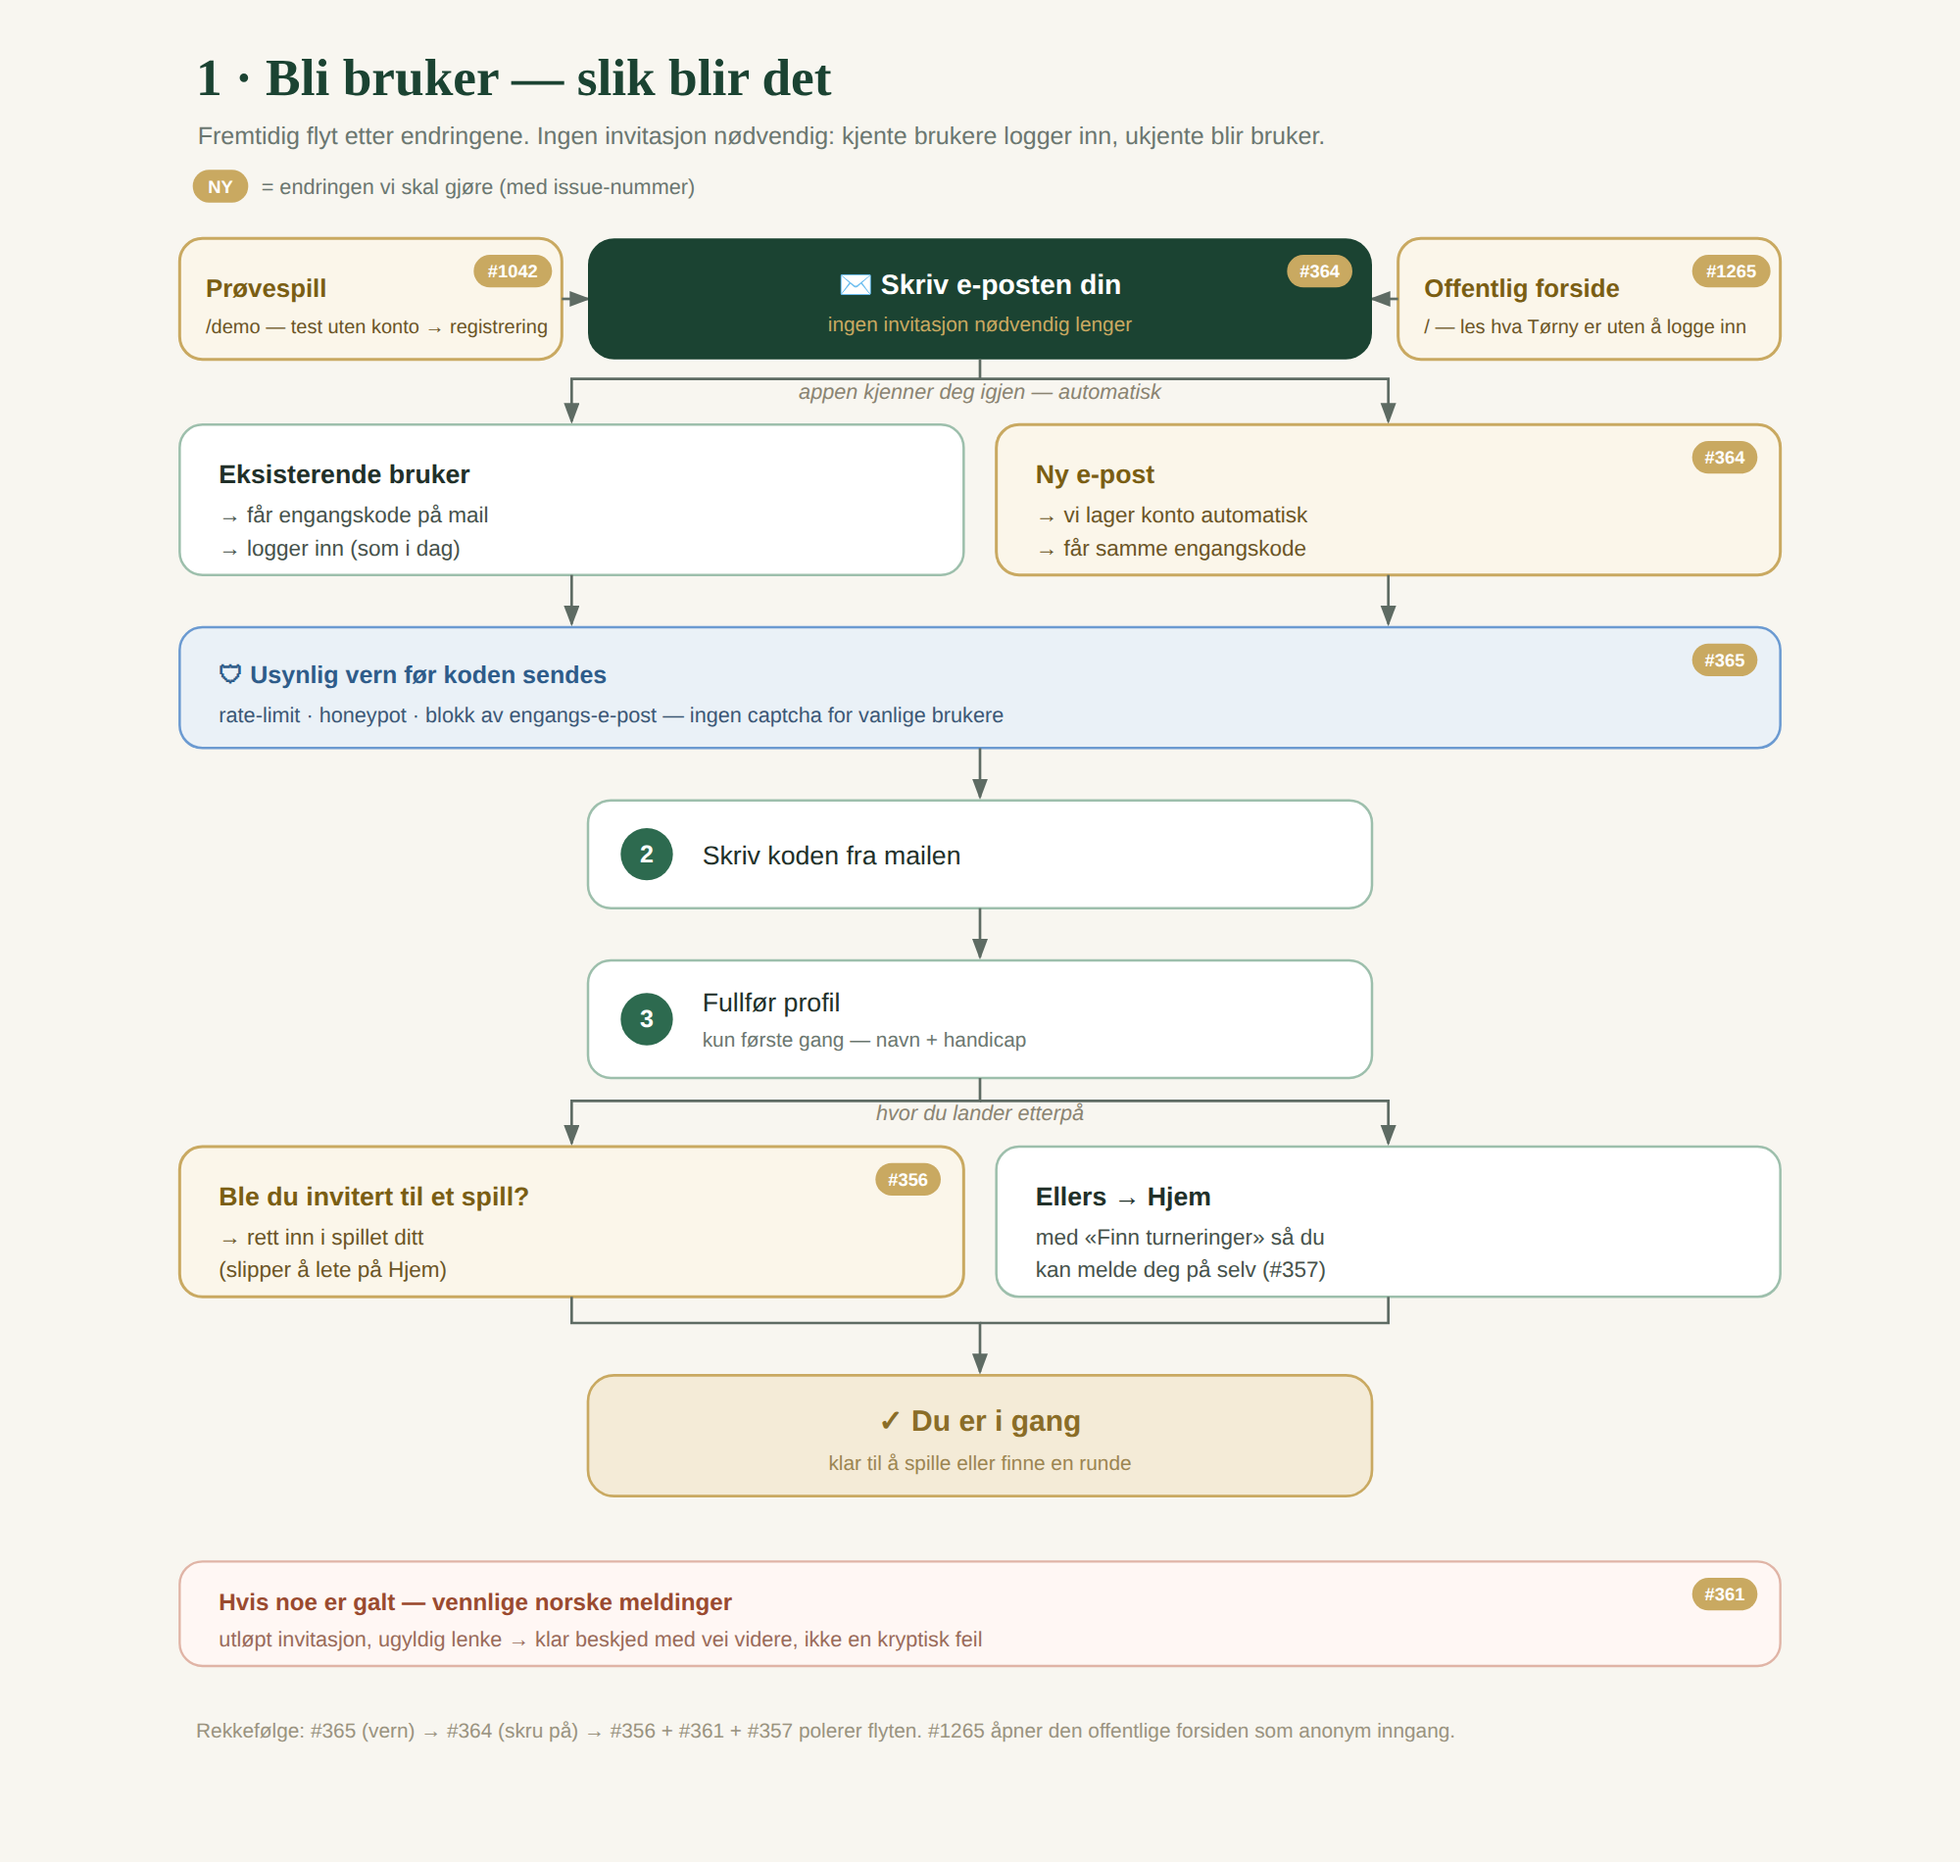
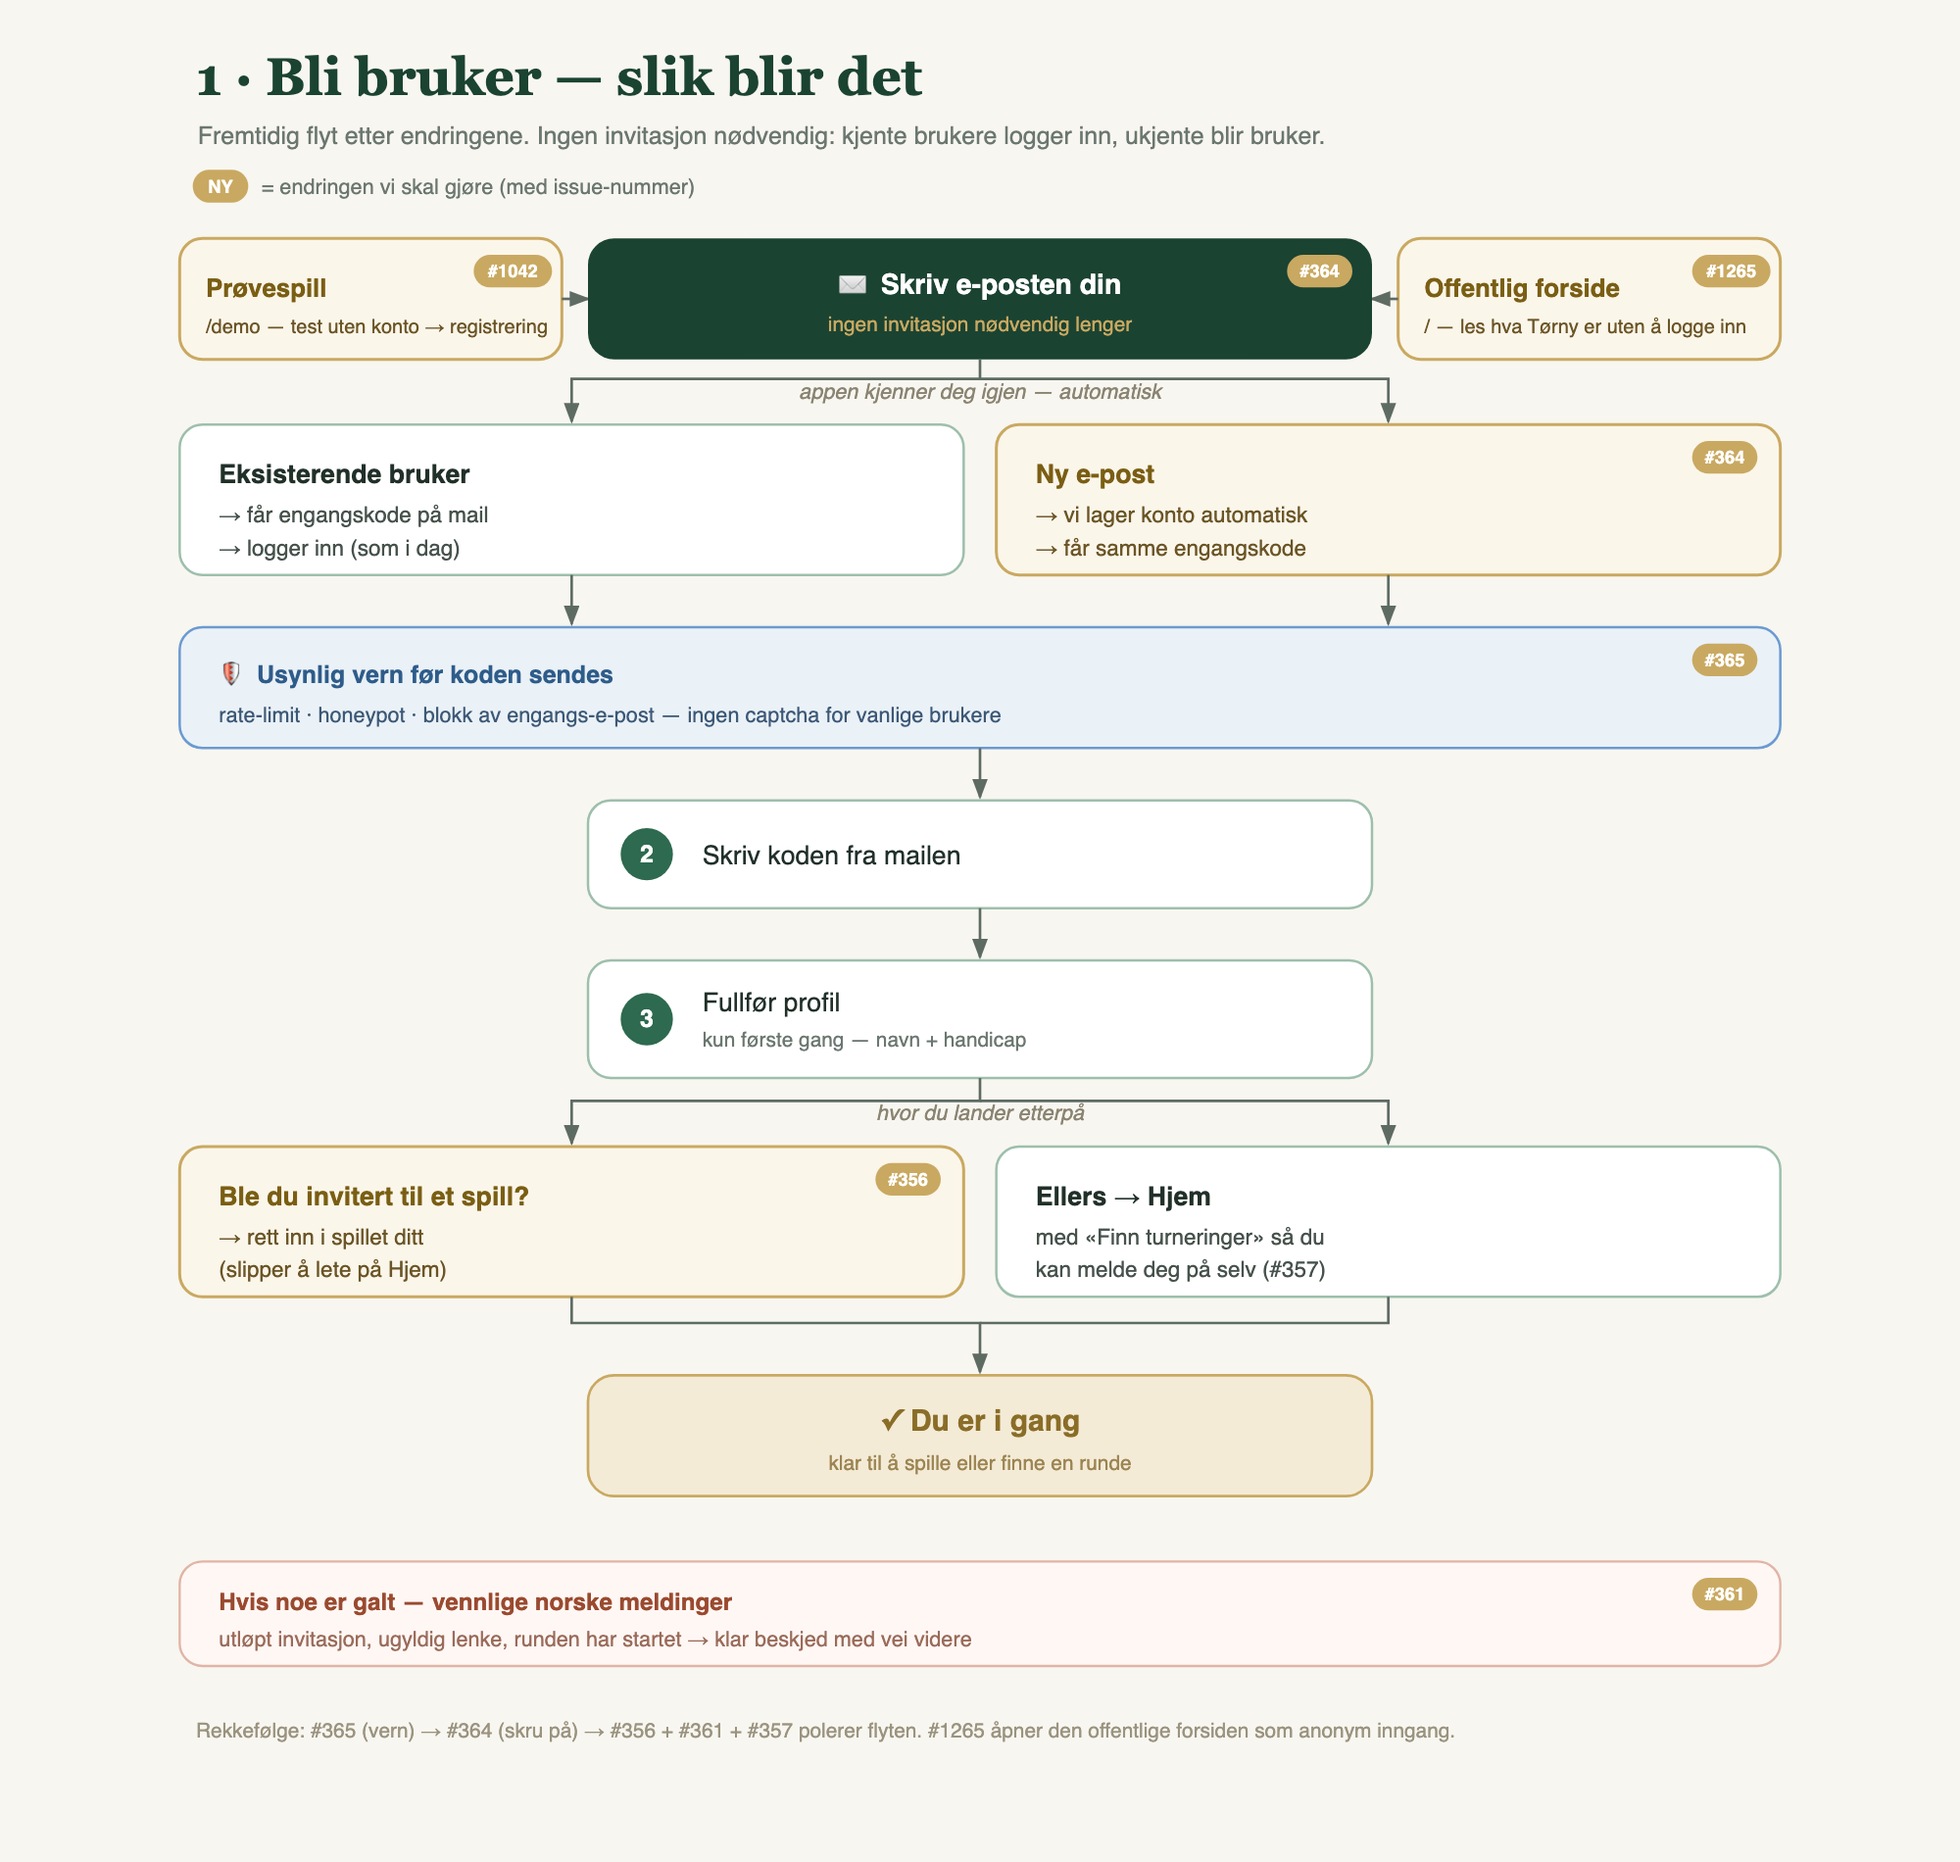
docs(flows): the invite step gives a roster spot only before start
P1 in user-flows.md now says that a game invitation gives a roster spot
only while the round has not started (a started or finished round sends
the invitee to /complete-profile with a notice, and a guest already on the
roster lands on the round), and that every invitation gives friendship
with the inviter. The future flow diagram lists «runden har startet» among
the friendly error messages; the PNG is regenerated from the SVG.

[no-changelog]
Refs #2212

Claude-Session: https://claude.ai/code/session_01SD8JEWsckHMjFNAwY9ggxq

diff --git a/docs/user-flows.md b/docs/user-flows.md
@@ -98,7 +98,7 @@ flowchart LR
   D --> E["/login?step=verify<br/>skriv 6–8-sifret kode"]
   E -- feil adresse --> B
   E --> F[verifyOtp]
-  F --> G[Marker invitations.accepted_at<br/>+ auto-insert game_players<br/>hvis spill-scoped invitasjon]
+  F --> G[Marker invitations.accepted_at<br/>+ auto-insert game_players hvis<br/>runden ikke har startet<br/>+ vennskap med den som inviterte]
   G --> H{profil fullført?}
   H -- nei --> CP["/complete-profile<br/>navn, hcp, kjønn, klasse"]
   H -- ja --> Home["/"]
@@ -108,7 +108,7 @@ flowchart LR
 | Steg | Rute / fil | Teknisk |
 |---|---|---|
 | Be om kode | `app/[locale]/(auth)/login/page.tsx`, `actions.ts` → `sendCode` | `email_is_invited` RPC gater `shouldCreateUser`; `signInWithOtp`. Kode-mail via **Supabase Auth**. Honeypot-felt `website`. |
-| Verifiser | `verifyCode` | `verifyOtp({type:'email'})`. Marker `invitations.accepted_at` (RLS 0012). Spill-scoped invitasjon → auto-insert i `game_players` + `notifyInvitedToGame`. |
+| Verifiser | `verifyCode` | `verifyOtp({type:'email'})`. Marker `invitations.accepted_at` (RLS 0012). Spill-invitasjon gir plass bare før start (`isRosterLocked`, #2212): planlagt runde → auto-insert i `game_players` + `notifyInvitedToGame`; startet eller ferdig runde → ingen plass, invitéen lander på `/complete-profile?invite_notice=game_started` med en beskjed (gjest som allerede står på lista, #1009, lander på runden). Alle invitasjoner, også de uten spill, gir vennskap med den som inviterte (`befriend_inviter`, #481/#2212). |
 | Endre adresse | `_components/VerifyCodeForm.tsx` → `changeEmailHref` | Retur-kant til steg 1 (#1346): GET til `/login` med `email`, `next` og `invite` beholdt, så feltet prefylles og kontekstkortet (#1169) overlever. Utveien når adressen er feiltastet — «Send ny kode» treffer bare samme feil adresse. |
 | Fullfør profil | `app/[locale]/complete-profile/page.tsx`, `actions.ts` | Setter `users.profile_completed_at` + navn/nickname/`hcp_index`/gender/level. |
 
